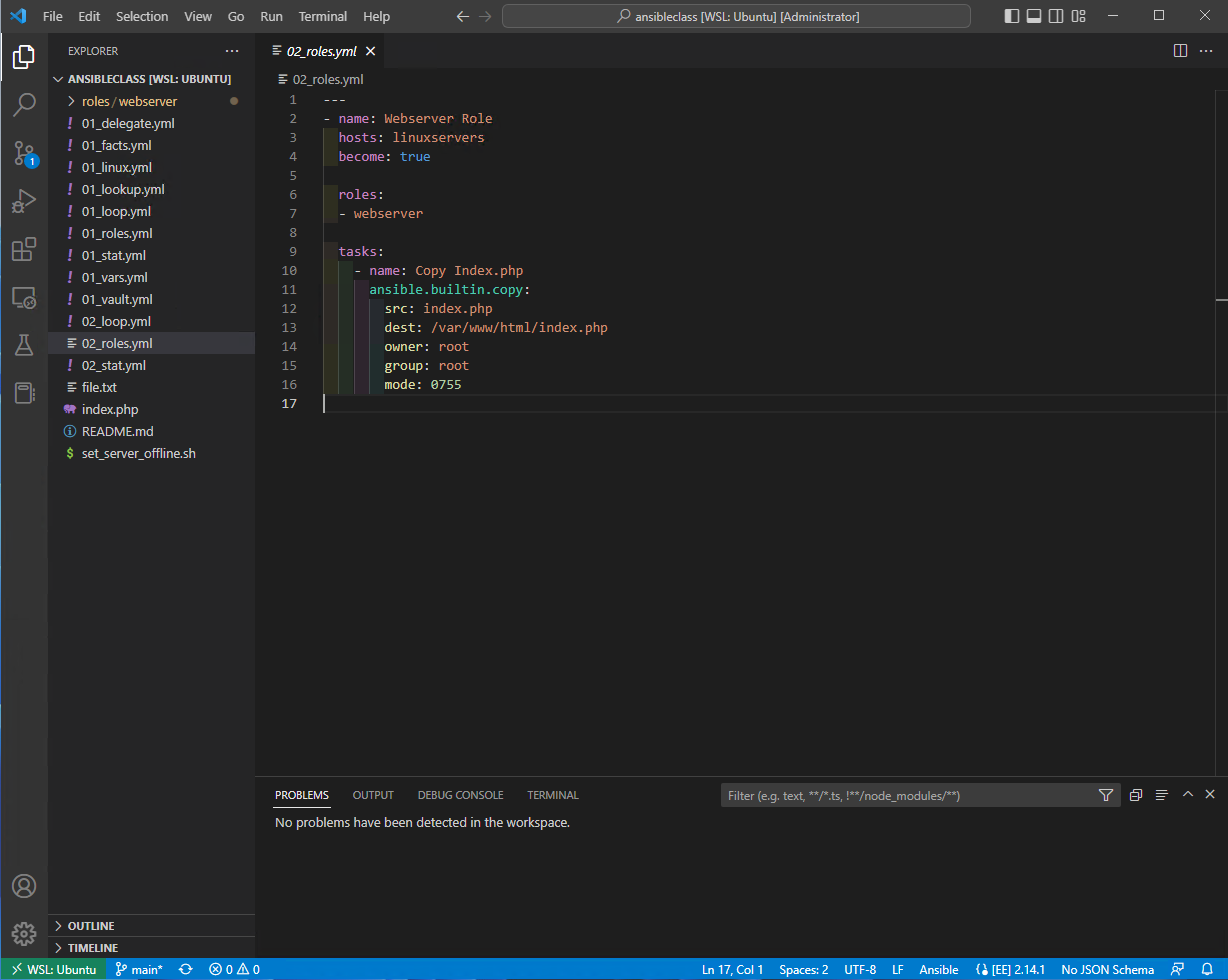
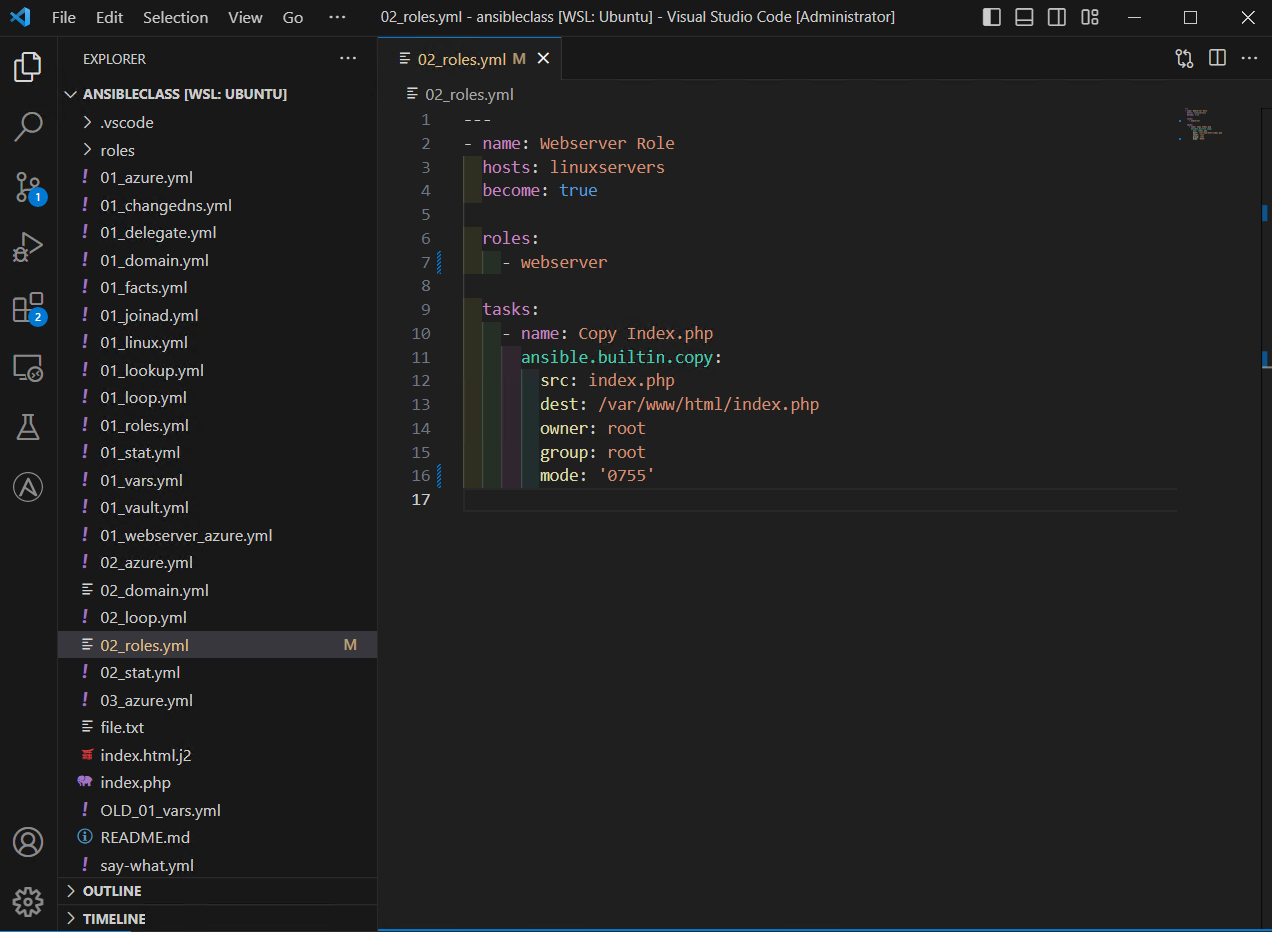
remove systemd from wsl and fix indentation

diff --git a/website/content/lab01/task5/_index.md b/website/content/lab01/task5/_index.md
@@ -33,43 +33,11 @@ WSL is now ready
 
 ![Alt text](images/03_wsl_ready.png?raw=true "wsl ready")
 
-Enable Systemd for WSL
-
-Enter password when prompted
-
-```bash
-
-sudo su
-
-echo -e "[boot]\nsystemd=true" >> /etc/wsl.conf
-
-```
-
-![Alt text](images/04_wsl_systemd.png?raw=true "wsl set systemd")
-
-Close the Linux console
-
-We will check for updates to WSL
-
-The shutdown is need for the systemd to work
-
-Open Windows Terminal and run
-
-```powershell
-
-wsl --update
-
-wsl --shutdown
-
-```
-
-![Alt text](images/04_wsl_update.png?raw=true "wsl update")
-
 Close the terminal and reopen it
 
 We need to install the vscode remote extention
 
-In the terminal
+In the Powershell terminal
 
 ```powershell
 

diff --git a/website/content/lab07/task4/_index.md b/website/content/lab07/task4/_index.md
@@ -171,7 +171,7 @@ Create a new file 02_roles.yml add the following
   become: true
 
   roles:
-  - webserver
+    - webserver
 
   tasks:
     - name: Copy Index.php
@@ -180,7 +180,7 @@ Create a new file 02_roles.yml add the following
         dest: /var/www/html/index.php
         owner: root
         group: root
-        mode: 0755
+        mode: '0755'
 
 ```
 
